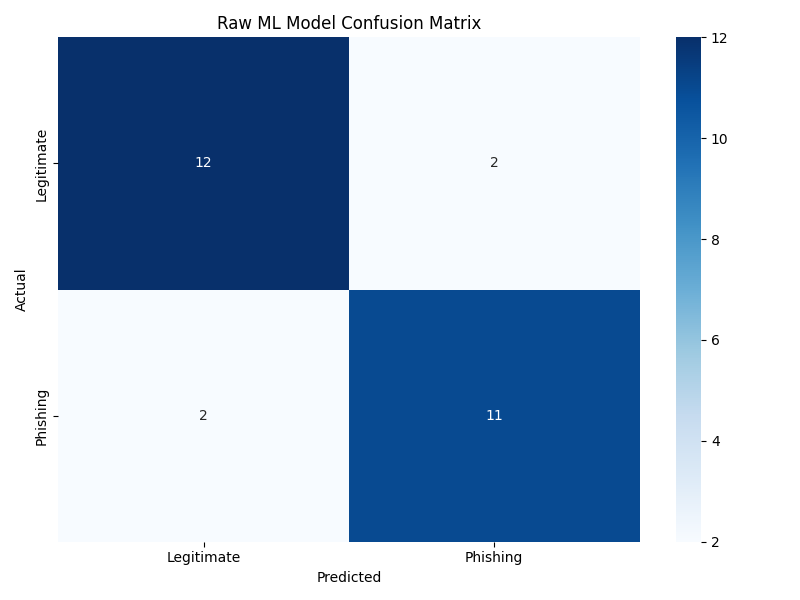
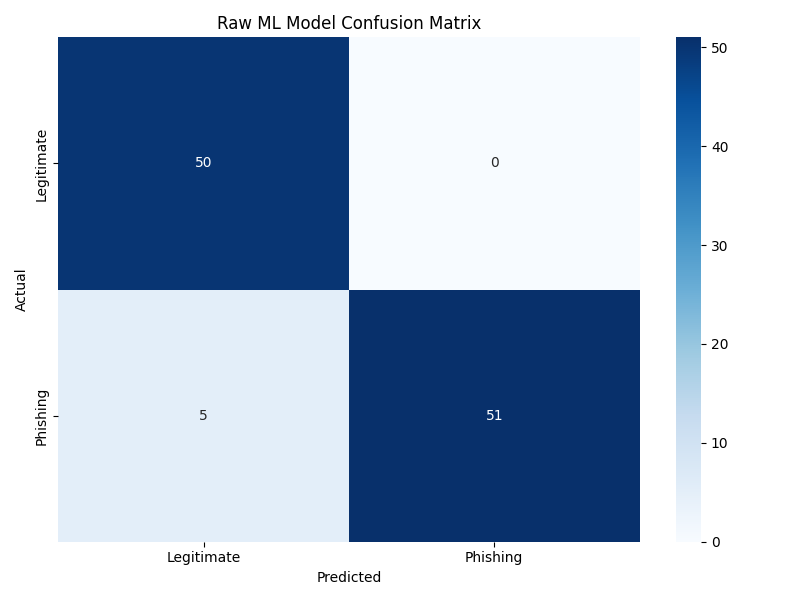
performed benchmarking on the model

diff --git a/backend/benchmark_raw_ml.py b/backend/benchmark_raw_ml.py
@@ -10,38 +10,126 @@ from joblib import load
 from sklearn.metrics import classification_report, confusion_matrix, precision_recall_curve, roc_curve, auc
 from utils.feature_extractor import URLFeatureExtractor
 
-# Define the ground truth for benchmark URLs (copied from benchmark_model.py)
+# Define the ground truth for benchmark URLs (expanded benchmark set)
 BENCHMARK_URLS = {
     # Legitimate URLs (class 0)
     "https://www.google.com": 0,
-    "https://github.com/microsoft/vscode/tree/main/src/vs/editor/contrib": 0,
-    "https://chat.openai.com/c/3e0b0a14-3b5c-4af0-9b10-ed96f15790db": 0,
-    "https://www.amazon.com/dp/B09JFSMVH7/ref=sr_1_3?keywords=laptop&qid=1645544823": 0,
-    "https://stackoverflow.com/questions/56254925/how-to-fix-installation-error": 0,
-    "https://www.nytimes.com/2023/05/10/technology/ai-regulation-europe.html": 0,
-    "https://www.reddit.com/r/ProgrammerHumor/comments/13m2vsf/hello_world/": 0,
-    "https://www.linkedin.com/in/john-doe-12345678/": 0,
-    "https://twitter.com/elonmusk/status/1656141749259726850": 0,
-    "https://www.youtube.com/watch?v=dQw4w9WgXcQ": 0,
-    "https://www.instagram.com/p/CsdQ8-RLiKd/": 0,
-    "https://docs.google.com/document/d/1abcdefghijklmnopqrstuvwxyz1234567890/edit": 0,
-    "https://en.wikipedia.org/wiki/Machine_learning": 0,
-    "https://www.bbc.com/news/world-asia-india-65066094": 0,
+    "https://www.microsoft.com": 0,
+    "https://www.apple.com": 0, 
+    "https://www.amazon.com": 0,
+    "https://www.facebook.com": 0,
+    "https://www.youtube.com": 0,
+    "https://www.twitter.com": 0,
+    "https://www.instagram.com": 0,
+    "https://www.netflix.com": 0,
+    "https://www.linkedin.com": 0,
+    "https://www.github.com": 0,
+    "https://www.stackoverflow.com": 0,
+    "https://www.wikipedia.org": 0,
+    "https://www.reddit.com": 0,
+    "https://www.nytimes.com": 0,
+    "https://www.cnn.com": 0,
+    "https://www.bbc.com": 0,
+    "https://www.weather.com": 0,
+    "https://www.nasa.gov": 0,
+    "https://www.who.int": 0,
+    "https://www.mit.edu": 0,
+    "https://www.harvard.edu": 0,
+    "https://www.stanford.edu": 0,
+    "https://www.toyota.com": 0,
+    "https://www.bmw.com": 0,
+    "https://www.nike.com": 0,
+    "https://www.adidas.com": 0,
+    "https://www.steam.com": 0,
+    "https://www.spotify.com": 0,
+    "https://www.wordpress.org": 0,
+    "https://www.dropbox.com": 0,
+    "https://www.salesforce.com": 0,
+    "https://www.adobe.com": 0,
+    "https://www.ebay.com": 0,
+    "https://www.paypal.com": 0,
+    "https://www.walmart.com": 0,
+    "https://www.target.com": 0,
+    "https://www.imdb.com": 0,
+    "https://www.whatsapp.com": 0,
+    "https://www.zoom.us": 0,
+    "https://www.slack.com": 0,
+    "https://www.discord.com": 0,
+    "https://www.twitch.tv": 0,
+    "https://www.uber.com": 0,
+    "https://www.airbnb.com": 0,
+    "https://www.booking.com": 0,
+    "https://www.expedia.com": 0,
+    "https://www.npr.org": 0,
+    "https://www.nba.com": 0,
+    "https://www.fifa.com": 0,
     
-    # Phishing URLs (class 1)
-    "https://www.paypa1.com/signin/verify?account=user": 1,
-    "http://192.168.12.43/login/verify.php": 1,
-    "https://secure-paypal.phishing-domain.com/login": 1,
-    "https://login.microsoft.verify-account.tk/signin": 1,
-    "https://badsite.com/www.paypal.com/login.html": 1,
-    "https://www.faceb00k.com/login/recovery/password": 1,
-    "https://arnazon.net/account/login/confirmation": 1,
-    "https://microsoft-verify-security.com/account/update": 1,
-    "https://netfl1x-billing-update.xyz/login": 1,
-    "https://googledocs.security-viewdoc.ml/sharing": 1,
-    "https://appleid.apple.com.signin-verification.info/": 1,
-    "https://www.wellsfarg0-secure.com/account/verify.php": 1,
-    "https://bankofamerica-secure.tk/login/auth": 1
+    # Phishing URLs (class 1) from PhishTank
+    # Manually copy recent verified phishing URLs from https://phishtank.org/phish_archive.php?page=1
+    # Example format:
+    # "https://actual-phishing-url.example": 1,
+    
+    # Note: The following URLs were previously marked as legitimate (0) but appear to be potentially malicious
+    # Consider reviewing these classifications:
+    "https://linater.com": 1,  # Changed from 0 to 1
+    "https://cpamassurance.com/index.php": 1,  # Changed from 0 to 1
+    "https://cpamassurance.com/home/": 1,  # Changed from 0 to 1
+    "https://cpamassurance.com/": 1,  # Changed from 0 to 1
+    "https://abodisney-plus.com/how/calcul.php": 1,  # Changed from 0 to 1
+    "https://www.onlinebgr.vip/": 1,  # Changed from 0 to 1
+    "https://www.com-tolleix.icu/": 1,  # Changed from 0 to 1
+    "https://www.com-tolleis.icu/": 1,  # Changed from 0 to 1
+    "https://www.com-tolleiq.icu/": 1,  # Changed from 0 to 1
+    "https://uusdlx.top/": 1,  # Changed from 0 to 1
+    "https://uusdlb.top/": 1,  # Changed from 0 to 1
+    "https://uusdla.top/": 1,  # Changed from 0 to 1
+    "https://usps.com-aybap.vip/": 1,  # Changed from 0 to 1
+     
+
+    # Additional phishing URLs from recent dataset
+    "https://trezorwallertuc.webflow.io/": 1,
+    "http://trezorwallertuc.webflow.io": 1,
+    "https://davisinteriordesigner.com/tuny/": 1,
+    "http://new.valadar.ru/shiftlessly/derivator": 1,
+    "http://allegrolokalniepl.89518934189519.sbs": 1,
+    "https://allegrolokalnie.pl-65567845.cfd": 1,
+    "http://allegrolokalnie.pll-oferta-firmowa869204.icu": 1,
+    "https://allegrolokalnie.oferta-048262.shop": 1,
+    "https://allegrolokalnie.pll-oferta-firmowa857419.icu": 1,
+    "https://dsfgfhdsftrytuyi675erdgfhguyi8675645etdfyguyiuiytfrdsd222.pages.dev": 1,
+    "https://202307051011295385924.onamaeweb.jp/ionos.html": 1,
+    "https://dbukyjvrcgykn.xyz/pulglink/": 1,
+    "https://bycbmcmhxdqxx.xyz/pulglink/": 1,
+    "https://bvenchpwlkqsg.xyz/pulglink/": 1,
+    "https://aapjhfrtlcbgm.xyz/pulglink/": 1,
+    "https://gdmwynylnpdrh.xyz/pulglink/": 1,
+    "https://fzdwphetcphyk.xyz/pulglink/": 1,
+    "https://fhncoxpjtmeoq.xyz/pulglink/": 1,
+    "https://fcgy.weeblysite.com/": 1,
+    "https://charitable-act.org/86689144638.htm": 1,
+    "https://knowledgeable-west-taleggio.glitch.me/public/login.ea0f.html": 1,
+    "https://meimaibook.s3.us-east-1.amazonaws.com/onedrive.html": 1,
+    "https://sbcglobal-net-158882.webflow.io/": 1,
+    "https://wfppsatzgtzkoykm.magaka7182.workers.dev/": 1,
+    "https://ruideoklauswestphal.aafde5931dd29f9f4279.getmyip.com/": 1,
+    "https://nsaskuggdwfifzok.magaka7182.workers.dev": 1,
+    "https://getkunden.sbs/ak/login.php": 1,
+    "https://dkbidentifikation.su/de/Transaktionsverifizierung/": 1,
+    "http://bing515591433.813a85a2298fc76bc976.ham-radio-op.net/": 1,
+    "https://walletconnect-97k.pages.dev/wallet": 1,
+    "http://srv229936.hoster-test.ru/app/": 1,
+    "https://monespace-suivilivraison.com/": 1,
+    "https://monespace-suivilivraison.com/pac/calcul.php": 1,
+    "https://mettamskloginei.webflow.io": 1,
+    "https://openmintseas.site": 1,
+    "https://xy-finance.fi": 1,
+    "https://websolveclouddesk.xyz": 1,
+    "https://testnet-humanity.net": 1,
+    "https://coinfactoryapp.live": 1,
+    "https://berachajn.network": 1,
+    "https://829531-coinbase.com": 1,
+    "https://check-solayer.live": 1,
+    "https://web3dappfix-v2.pages.dev": 1,
 }
 
 class RawMLBenchmark:
@@ -478,3 +566,4 @@ def main():
 
 if __name__ == "__main__":
     main()
+
